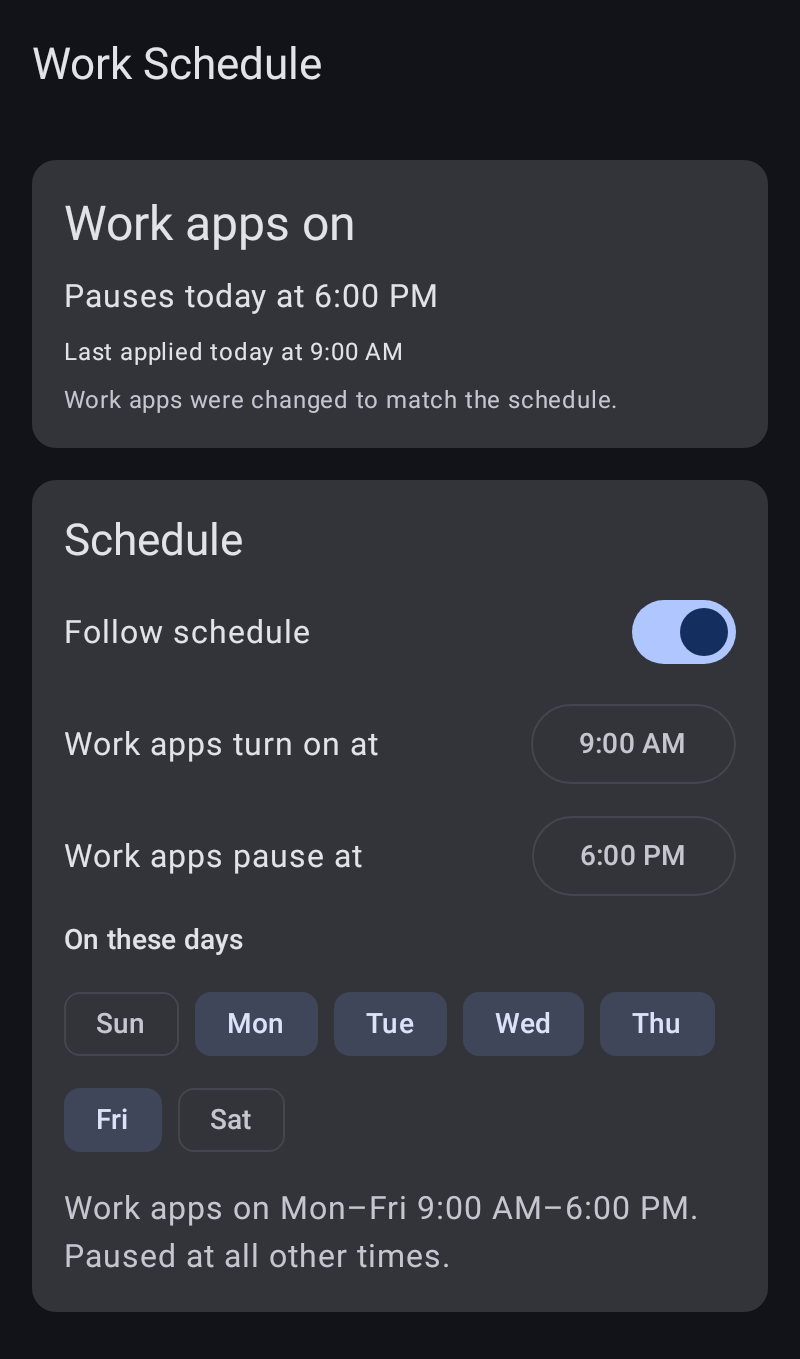
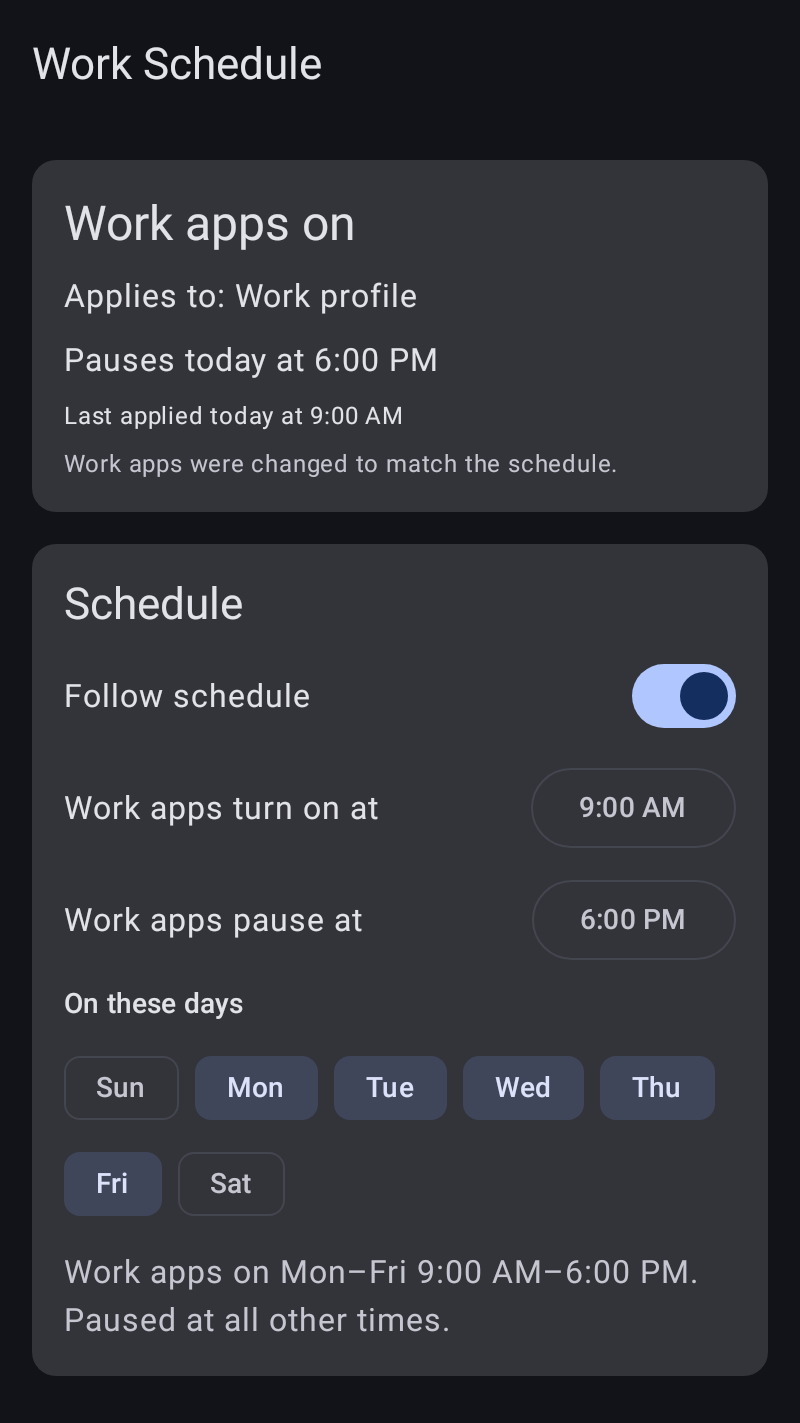
Name the profile the way the system does, such as "Work profile"
Badge the word "profile" instead of the app's own name, which read as
"Work Work Schedule", and refresh the README screenshots.

diff --git a/app/src/main/java/io/github/tiltbob/strawberry/platform/WorkProfiles.kt b/app/src/main/java/io/github/tiltbob/strawberry/platform/WorkProfiles.kt
@@ -11,6 +11,7 @@ import android.os.UserHandle
 import android.os.UserManager
 import android.util.Log
 import androidx.annotation.RequiresApi
+import io.github.tiltbob.strawberry.R
 import io.github.tiltbob.strawberry.core.QuietModeController
 import io.github.tiltbob.strawberry.core.TargetLookup
 import io.github.tiltbob.strawberry.core.WorkProfileTarget
@@ -36,7 +37,7 @@ data class ProfileCandidate(
     val serial: Long,
     val kind: ProfileKind,
     val paused: Boolean,
-    /** For example "Work Work Schedule", as the system badges labels for this profile. */
+    /** For example "Work profile". */
     val label: String,
 )
 
@@ -81,7 +82,7 @@ class WorkProfiles(context: Context, private val prefs: Prefs = Prefs(context)) 
         // Hidden API, so only read when LauncherApps cannot tell (always on Android 11 to 14).
         val managedByUserInfo by lazy { readManagedFlags() }
         val learned = prefs.learnedManagedSerials
-        val appLabel = app.applicationInfo.loadLabel(app.packageManager)
+        val baseLabel = app.getString(R.string.profile_badge_base)
         return others.mapNotNull { handle ->
             try {
                 val serial = userManager.getSerialNumberForUser(handle)
@@ -91,7 +92,7 @@ class WorkProfiles(context: Context, private val prefs: Prefs = Prefs(context)) 
                     serial = serial,
                     kind = kind,
                     paused = userManager.isQuietModeEnabled(handle),
-                    label = app.packageManager.getUserBadgedLabel(appLabel, handle).toString(),
+                    label = labelFor(handle, serial, baseLabel),
                 )
             } catch (e: RuntimeException) {
                 // One odd profile must not break the others.
@@ -125,6 +126,19 @@ class WorkProfiles(context: Context, private val prefs: Prefs = Prefs(context)) 
             managed.size > 1 -> ProfileState.NeedsChoice(managed)
             usable.isNotEmpty() -> ProfileState.NeedsConfirmation(usable)
             else -> ProfileState.None
+        }
+    }
+
+    /**
+     * The system's name for the profile, such as "Work profile": the word "profile" badged the way
+     * the system badges app labels for that profile.
+     */
+    private fun labelFor(handle: UserHandle, serial: Long, base: String): String {
+        val badged = app.packageManager.getUserBadgedLabel(base, handle).toString()
+        return if (badged == base) {
+            app.getString(R.string.profile_unnamed, serial)
+        } else {
+            badged.replaceFirstChar { it.titlecase() }
         }
     }
 

diff --git a/app/src/test/java/io/github/tiltbob/strawberry/ui/WorkScheduleScreenTest.kt b/app/src/test/java/io/github/tiltbob/strawberry/ui/WorkScheduleScreenTest.kt
@@ -30,14 +30,14 @@ class WorkScheduleScreenTest {
     @Test
     fun statusNamesTheOnlyProfileWithoutOfferingToChangeIt() {
         val texts = shownTexts(ProfileState.Selected(work, alternatives = emptyList()))
-        assertTrue(texts.toString(), "Profile: Work Profile A" in texts)
+        assertTrue(texts.toString(), "Applies to: Work Profile A" in texts)
         assertFalse(texts.toString(), "Change" in texts)
     }
 
     @Test
     fun statusOffersToChangeTheProfileWhenThereAreOthers() {
         val texts = shownTexts(ProfileState.Selected(work, alternatives = listOf(other)))
-        assertTrue(texts.toString(), "Profile: Work Profile A" in texts)
+        assertTrue(texts.toString(), "Applies to: Work Profile A" in texts)
         assertTrue(texts.toString(), "Change" in texts)
     }
 
